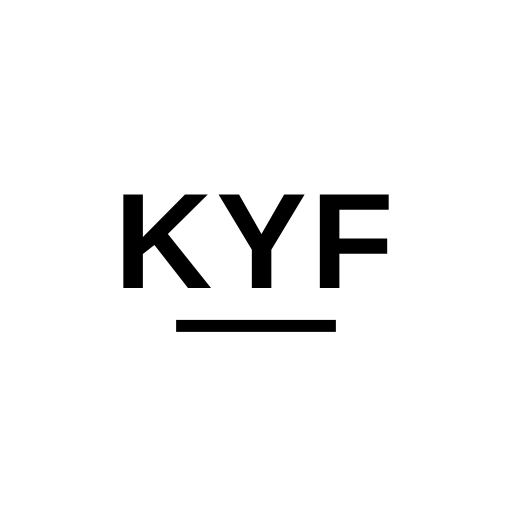
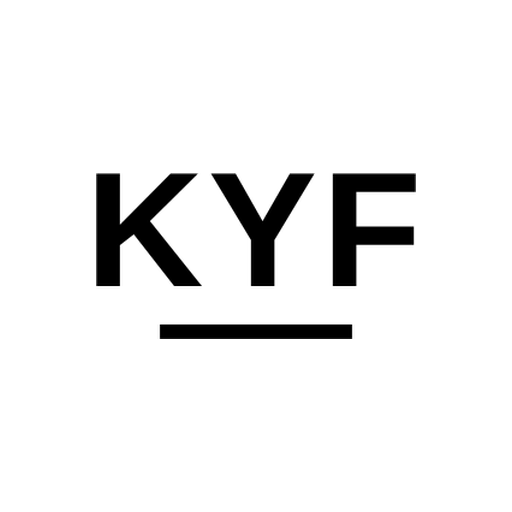
Mobile 3.104.4.03 : icone monochrome agrandie
Claude-Session: https://claude.ai/code/session_01LDNt5bbMBMRFBWLDE9nv8Q

Changed region(s): [[0.1875, 0.3125, 0.8125, 0.5625], [0.3125, 0.625, 0.6875, 0.6875]]

diff --git a/mobile/index.html b/mobile/index.html
@@ -798,7 +798,7 @@ try{new MutationObserver(ro).observe(document.documentElement,{childList:true,su
 function run(){T=0;var B=document.querySelectorAll("#bk");for(var j=1;j<B.length;j++)if(B[0].onclick&&!B[j].onclick)B[j].onclick=B[0].onclick;var L=document.querySelectorAll("button.swr");for(var i=0;i<L.length;i++){var b=L[i],f=b.firstElementChild;if(!f||f.classList.contains("ic"))continue;var t=(b.querySelector("b")||{}).textContent||"",p=DF;for(var k=0;k<M.length;k++)if(M[k][0].test(t)){p=M[k][1];break}var sp=document.createElement("span");sp.className="ic";sp.style.setProperty("--k","var(--acc)");sp.innerHTML='<svg width="22" height="22" viewBox="0 0 24 24" fill="none" stroke="currentColor" stroke-width="2" stroke-linecap="round" stroke-linejoin="round" aria-hidden="true">'+p+'</svg>';b.insertBefore(sp,f)}}
 function q(){if(!T)T=setTimeout(run,0)}
 try{new MutationObserver(q).observe(document.documentElement,{childList:true,subtree:true})}catch(x){setInterval(run,400)}run()})();
-var VER="3.104.4.02", K={ops:"kyfm-ops",phrase:"kyfm-phrase",tick:"kyfm-tickers",last:"kyfm-last",frais:"kyfm-frais",fam:"kyfm-fam",pour:"kyfm-pour",theme:"kyfm-theme",rec:"kyfm-rec",base:"kyfm-base",lastc:"kyfm-lastc",cpt:"kyfm-comptes",delay:"kyfm-delay",voice:"kyfm-voice",noms:"kyfm-noms",act:"kyfm-actifs",sent:"kyfm-envois",famon:"kyfm-famon"};
+var VER="3.104.4.03", K={ops:"kyfm-ops",phrase:"kyfm-phrase",tick:"kyfm-tickers",last:"kyfm-last",frais:"kyfm-frais",fam:"kyfm-fam",pour:"kyfm-pour",theme:"kyfm-theme",rec:"kyfm-rec",base:"kyfm-base",lastc:"kyfm-lastc",cpt:"kyfm-comptes",delay:"kyfm-delay",voice:"kyfm-voice",noms:"kyfm-noms",act:"kyfm-actifs",sent:"kyfm-envois",famon:"kyfm-famon"};
 var TYPES=[["groupe_projet","Projet"],["perecol_fonds","Fonds PERECOL"],["alerte_seuils","Seuils d’alerte"],["alerte_cible","Objectif de prix"],["achat","Acheter"],["vente","Vendre"],["dividende","Dividende"],["versement","Versement"],["retrait","Retrait"],["crypto_achat","Achat crypto"],["crypto_vente","Vente crypto"],["livret_depot","Dépôt livret"],["livret_retrait","Retrait livret"],["livret_virement","Virement entre livrets"],["arbitrage","Arbitrage"],["frais_av","Frais AV"],["av_versement","Versement AV ou PER"],["av_programme","Versement programmé"],["av_rachat","Rachat"],["av_valeur","Valeur du contrat"],["av_ligne_valeur","Valeur d’une ligne"],["av_ligne_nouvelle","Nouvelle ligne manuelle"],["livret_interets","Intérêts livret"],["actif_nouveau","Nouvel actif"],["renommage","Renommage"],["livret_taux","Taux du livret"],["actif_valeur","Valeur d’un actif"],["etranger_nouveau","Avoir à l’étranger"],["etranger_valeur","Valeur d’un avoir à l’étranger"],["crypto_swap","Swap crypto"],["crypto_transfert","Transfert crypto"],["crypto_frais","Frais crypto"],["immo_valeur","Valeur d’un bien"],["immo_loyer","Loyer d’un bien"],["or_achat","Achat d’or ou de métal"],["or_vente","Vente d’or ou de métal"],["crowd_projet","Nouveau projet"],["crowd_maj","Mise à jour d’un projet"],["pe_placement","Nouveau placement"],["pe_maj","Mise à jour d’un placement"],["scpi_achat","Achat de parts de SCPI"],["scpi_vente","Vente de parts de SCPI"],["scpi_dividende","Dividende de SCPI"],["scpi_maj","Mise à jour d’une SCPI"],["flux_recurrent","Flux récurrent"],["pee_versement","Versement PEE"],["pee_retrait","Retrait PEE"],["dca_plan","Plan DCA"],["cash_maj","Solde de liquidités"],["livret_dca","Versement programmé livret"]];
 var CRP=[["BTC","Bitcoin"],["ETH","Ethereum"],["SOL","Solana"],["USDC","USD Coin"],["USDT","Tether"],["DAI","Dai"],["EURC","Euro Coin"],["BNB","BNB"],["XRP","XRP"],["ADA","Cardano"],["DOGE","Dogecoin"],["LINK","Chainlink"],["DOT","Polkadot"],["AVAX","Avalanche"],["LTC","Litecoin"],["TRX","Tron"],["XLM","Stellar"],["ATOM","Cosmos"],["UNI","Uniswap"],["NEAR","Near"],["SHIB","Shiba Inu"],["XMR","Monero"]].map(function(a){return{ticker:a[0],isin:"",nom:a[1]}});
 var AVEC_TITRE=["achat","vente","dividende","crypto_achat","crypto_vente"];
@@ -4893,7 +4893,7 @@ if(nv){go("actdt");return}
   Array.prototype.forEach.call(app.querySelectorAll("[data-pm]"),function(b){b.onclick=function(){sv("pcm",b.getAttribute("data-pm"));render()}});
   Array.prototype.forEach.call(app.querySelectorAll("[data-rg]"),function(b){var tm=0,lp=false,r=b.getAttribute("data-rg");function cl(){if(tm){clearTimeout(tm);tm=0}}b.addEventListener("touchstart",function(){lp=false;cl();tm=setTimeout(function(){tm=0;lp=true;sv("prgd",r);S.prg=r;kToast(r+" par défaut");try{if(navigator.vibrate)navigator.vibrate([12,40,12])}catch(_){}render()},550)},{passive:true});["touchend","touchmove","touchcancel"].forEach(function(e){b.addEventListener(e,cl,{passive:true})});b.addEventListener("contextmenu",function(e){e.preventDefault()});b.onclick=function(){if(lp){lp=false;return}S.prg=r;render()}});
   if($("cpgpea"))$("cpgpea").onclick=function(){S.cpgPea=S.cpgPea===false;render()};
-  if($("cpaddpea"))$("cpaddpea").onclick=function(){var L=peaSugg();msg="";S.peaN={nom:L.length?L[0].t:"",ti:L.length?L[0].ti:""};render()};   /* 3.104.4.02 : pas de clavier à l'ouverture, il ne sort que pour taper un autre nom */
+  if($("cpaddpea"))$("cpaddpea").onclick=function(){var L=peaSugg();msg="";S.peaN={nom:L.length?L[0].t:"",ti:L.length?L[0].ti:""};render()};   /* 3.104.4.03 : pas de clavier à l'ouverture, il ne sort que pour taper un autre nom */
   if($("pnn"))$("pnn").onfocus=function(){var i=this;setTimeout(function(){try{i.scrollIntoView({block:"center",behavior:"smooth"})}catch(e){}},280)};
   if($("pnx"))$("pnx").onclick=function(){S.peaN=null;msg="";render()};if($("pnbg"))$("pnbg").onclick=function(){S.peaN=null;msg="";render()};
   if($("pnok"))$("pnok").onclick=function(){var nom=String(($("pnn")||{}).value||"").replace(/[<>"`&]/g,"").trim().slice(0,60);if(!nom){msg="Donnez un nom au PEA.";return render()}var l=comptes();if(l.some(function(c){return c.type==="PEA"&&String(c.nom).toLowerCase()===nom.toLowerCase()})){msg="Un PEA porte déjà ce nom.";return render()}

diff --git a/mobile/sw.js b/mobile/sw.js
@@ -1,7 +1,7 @@
 /* Keep Your Folio Mobile 1.19 : fonctionnement hors ligne.
    Ne met en cache que les fichiers de cette appli (même adresse). Les téléchargements vers
    d’autres sites (base publique) et tout le reste ne passent jamais par ce cache. */
-var CACHE="kyfm-3.104.4.02";
+var CACHE="kyfm-3.104.4.03";
 var FICHIERS=["./","index.html","manifest.webmanifest","icon-192.png","icon-512.png","icon-512-maskable.png","apple-touch-icon.png","icon-dark-192.png","icon-mono-512.png","jsqr.js","avf.js","qr.js","countries.json","ds/finary.jpg","ds/tr.jpg","ds/bourso.jpg","ds/fortuneo.jpg"].concat(["logos/amundi.png","logos/ishares.png","logos/bnp.png","logos/vanguard.png","logos/xtrackers.png","logos/wisdomtree.png","logos/aave.png","logos/ada.png","logos/algo.png","logos/atom.png","logos/avax.png","logos/bch.png","logos/bnb.png","logos/btc.png","logos/dai.png","logos/dash.png","logos/doge.png","logos/dot.png","logos/etc.png","logos/eth.png","logos/fil.png","logos/icp.png","logos/leo.png","logos/link.png","logos/ltc.png","logos/paxg.png","logos/sol.png","logos/trx.png","logos/uni.png","logos/usdc.png","logos/usdt.png","logos/vet.png","logos/wbtc.png","logos/xlm.png","logos/xmr.png","logos/xrp.png","logos/zec.png"]);
 /* Installation rapide : seul le noyau est téléchargé avant l’activation (la bannière « Relancer » arrive plus vite).
    Le reste (logos, bibliothèques) est mis en cache ensuite, en arrière-plan ; au pire il l’est à la première utilisation. */
